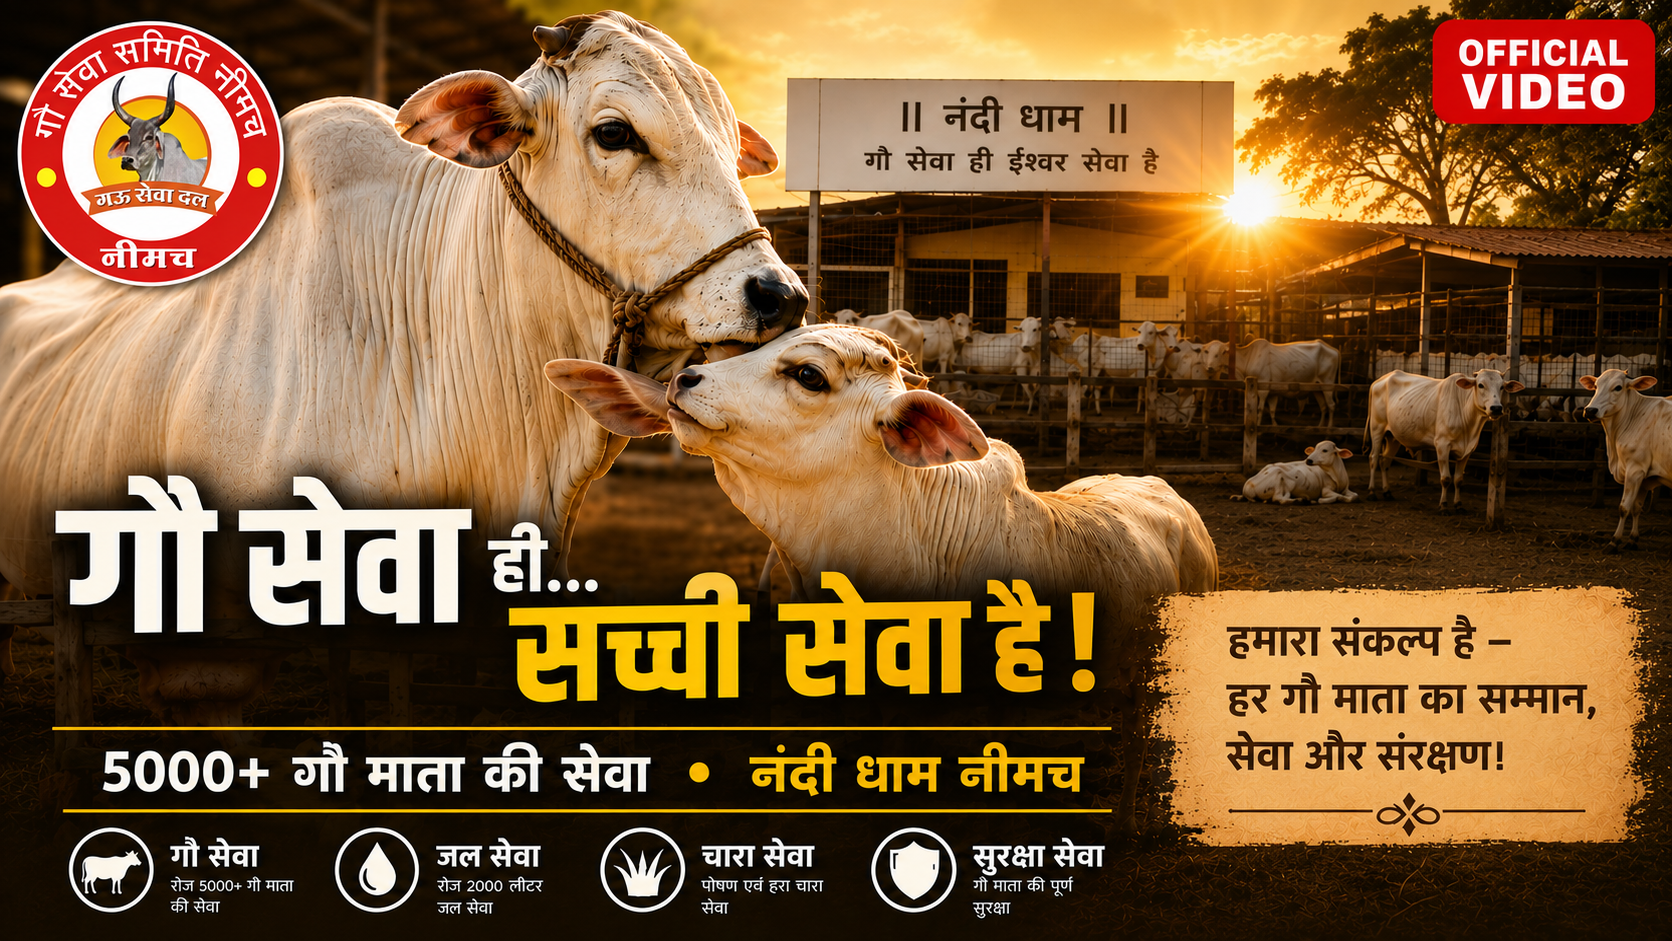
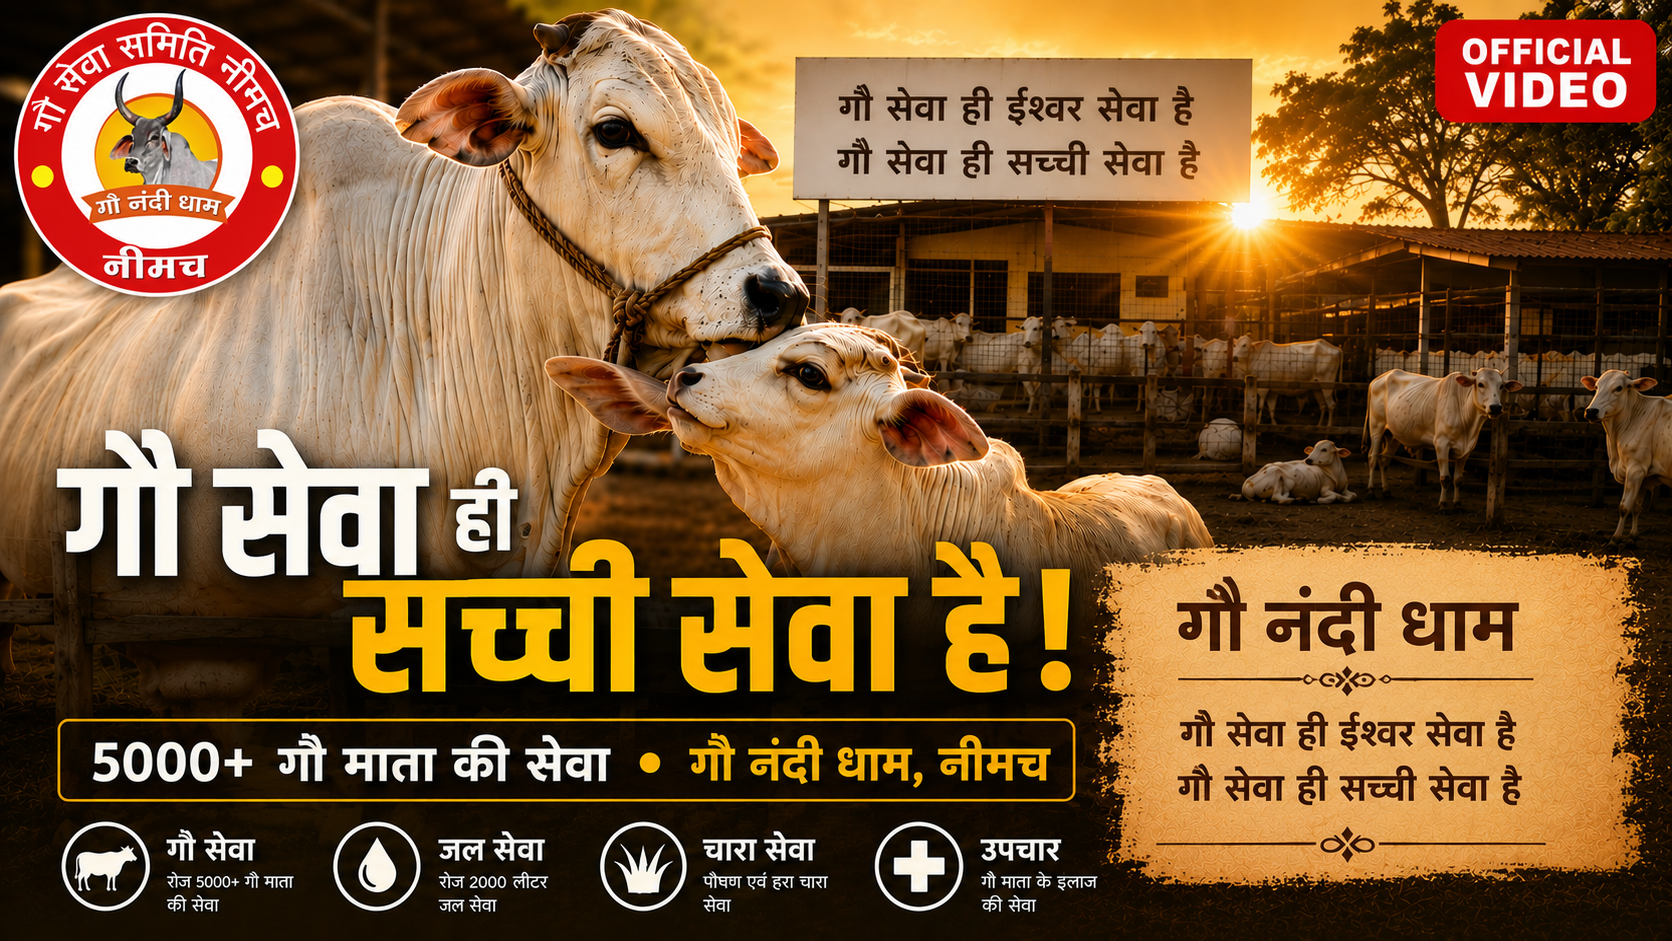
Track videos with Git LFS

diff --git a/index.html b/index.html
@@ -160,7 +160,7 @@
       <div class="about__media" data-reveal>
         <div class="media-card">
           <div class="media-card__video">
-            <video autoplay muted loop playsinline controls preload="auto" poster="assets/video thumbnail.png">
+            <video autoplay muted loop playsinline controls preload="auto" poster="./assets/video thumbnail.png">
               <source src="./assets/vidssave.com Full video of Go Seva Nandi Dham Neemuch how we work _ 1080P.mp4"
                 type="video/mp4">
               आपका ब्राउज़र वीडियो चलाने में सक्षम नहीं है।
